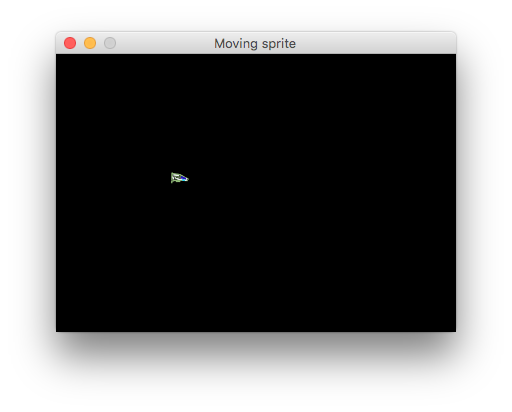
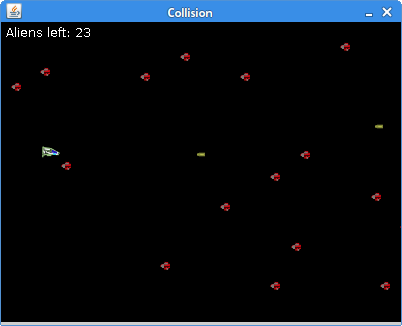
SpaceCraft

diff --git a/src/main/java/spacecraft/Board.java b/src/main/java/spacecraft/Board.java
@@ -1,8 +1,11 @@
 package spacecraft;
 
 import java.awt.Color;
+import java.awt.Dimension;
+import java.awt.Font;
+import java.awt.FontMetrics;
 import java.awt.Graphics;
-import java.awt.Graphics2D;
+import java.awt.Rectangle;
 import java.awt.Toolkit;
 import java.awt.event.ActionEvent;
 import java.awt.event.ActionListener;
@@ -14,11 +17,27 @@ import javax.swing.Timer;
 
 public class Board extends JPanel implements ActionListener {
 
-    private final int ICRAFT_X = 40;
-    private final int ICRAFT_Y = 60;
-    private final int DELAY = 10;
     private Timer timer;
     private Craft craft;
+    private ArrayList<Alien> aliens;
+    private boolean ingame;
+    private final int ICRAFT_X = 40;
+    private final int ICRAFT_Y = 60;
+    private final int B_WIDTH = 400;
+    private final int B_HEIGHT = 300;
+    private final int DELAY = 15;
+
+    private final int[][] pos = {
+        {2380, 29}, {2500, 59}, {1380, 89},
+        {780, 109}, {580, 139}, {680, 239},
+        {790, 259}, {760, 50}, {790, 150},
+        {980, 209}, {560, 45}, {510, 70},
+        {930, 159}, {590, 80}, {530, 60},
+        {940, 59}, {990, 30}, {920, 200},
+        {900, 259}, {660, 50}, {540, 90},
+        {810, 220}, {860, 20}, {740, 180},
+        {820, 128}, {490, 170}, {700, 30}
+    };
 
     public Board() {
 
@@ -30,68 +49,172 @@ public class Board extends JPanel implements ActionListener {
         addKeyListener(new TAdapter());
         setFocusable(true);
         setBackground(Color.BLACK);
-        setDoubleBuffered(true);
+        ingame = true;
+
+        setPreferredSize(new Dimension(B_WIDTH, B_HEIGHT));
 
         craft = new Craft(ICRAFT_X, ICRAFT_Y);
 
+        initAliens();
+
         timer = new Timer(DELAY, this);
         timer.start();
+    }
+
+    public void initAliens() {
+        aliens = new ArrayList<>();
+
+        for (int[] p : pos) {
+            aliens.add(new Alien(p[0], p[1]));
+        }
     }
 
     @Override
     public void paintComponent(Graphics g) {
         super.paintComponent(g);
 
-        doDrawing(g);
+        if (ingame) {
+
+            drawObjects(g);
+
+        } else {
+
+            drawGameOver(g);
+        }
 
         Toolkit.getDefaultToolkit().sync();
     }
 
-    private void doDrawing(Graphics g) {
+    private void drawObjects(Graphics g) {
 
-        Graphics2D g2d = (Graphics2D) g;
-        g2d.drawImage(craft.getImage(), craft.getX(),
-                craft.getY(), this);
-
-        ArrayList ms = craft.getMissiles();
-
-        for (Object m1 : ms) {
-            Missile m = (Missile) m1;
-            g2d.drawImage(m.getImage(), m.getX(),
-                    m.getY(), this);
+        if (craft.isVisible()) {
+            g.drawImage(craft.getImage(), craft.getX(), craft.getY(),
+                    this);
         }
+
+        ArrayList<Missile> ms = craft.getMissiles();
+
+        for (Missile m : ms) {
+            if (m.isVisible()) {
+                g.drawImage(m.getImage(), m.getX(), m.getY(), this);
+            }
+        }
+
+        for (Alien a : aliens) {
+            if (a.isVisible()) {
+                g.drawImage(a.getImage(), a.getX(), a.getY(), this);
+            }
+        }
+
+        g.setColor(Color.WHITE);
+        g.drawString("Aliens left: " + aliens.size(), 5, 15);
+    }
+
+    private void drawGameOver(Graphics g) {
+
+        String msg = "Game Over";
+        Font small = new Font("Helvetica", Font.BOLD, 14);
+        FontMetrics fm = getFontMetrics(small);
+
+        g.setColor(Color.white);
+        g.setFont(small);
+        g.drawString(msg, (B_WIDTH - fm.stringWidth(msg)) / 2,
+                B_HEIGHT / 2);
     }
 
     @Override
     public void actionPerformed(ActionEvent e) {
 
-        updateMissiles();
+        inGame();
+
         updateCraft();
+        updateMissiles();
+        updateAliens();
+
+        checkCollisions();
 
         repaint();
     }
 
-    private void updateMissiles() {
-
-        ArrayList ms = craft.getMissiles();
-
-        for (int i = 0; i < ms.size(); i++) {
-
-            Missile m = (Missile) ms.get(i);
-
-            if (m.isVisible()) {
-
-                m.move();
-            } else {
-
-                ms.remove(i);
-            }
+    private void inGame() {
+        
+        if (!ingame) {
+            timer.stop();
         }
     }
 
     private void updateCraft() {
 
-        craft.move();
+        if (craft.isVisible()) {
+            craft.move();
+        }
+    }
+
+    private void updateMissiles() {
+
+        ArrayList<Missile> ms = craft.getMissiles();
+
+        for (int i = 0; i < ms.size(); i++) {
+
+            Missile m = ms.get(i);
+
+            if (m.isVisible()) {
+                m.move();
+            } else {
+                ms.remove(i);
+            }
+        }
+    }
+
+    private void updateAliens() {
+
+        if (aliens.isEmpty()) {
+
+            ingame = false;
+            return;
+        }
+
+        for (int i = 0; i < aliens.size(); i++) {
+
+            Alien a = aliens.get(i);
+            if (a.isVisible()) {
+                a.move();
+            } else {
+                aliens.remove(i);
+            }
+        }
+    }
+
+    public void checkCollisions() {
+
+        Rectangle r3 = craft.getBounds();
+
+        for (Alien alien : aliens) {
+            Rectangle r2 = alien.getBounds();
+
+            if (r3.intersects(r2)) {
+                craft.setVisible(false);
+                alien.setVisible(false);
+                ingame = false;
+            }
+        }
+
+        ArrayList<Missile> ms = craft.getMissiles();
+
+        for (Missile m : ms) {
+
+            Rectangle r1 = m.getBounds();
+
+            for (Alien alien : aliens) {
+
+                Rectangle r2 = alien.getBounds();
+
+                if (r1.intersects(r2)) {
+                    m.setVisible(false);
+                    alien.setVisible(false);
+                }
+            }
+        }
     }
 
     private class TAdapter extends KeyAdapter {

diff --git a/src/main/java/spacecraft/Main.java b/src/main/java/spacecraft/Main.java
@@ -6,28 +6,29 @@ import javax.swing.JFrame;
 public class Main extends JFrame {
 
     public Main() {
-        
+
         initUI();
     }
-    
+
     private void initUI() {
-        
+
         add(new Board());
-        
+
         setSize(400, 300);
         setResizable(false);
-        
-        setTitle("Moving sprite");
+
+        setTitle("Collision");
+
         setLocationRelativeTo(null);
         setDefaultCloseOperation(JFrame.EXIT_ON_CLOSE);
     }
 
     public static void main(String[] args) {
-        
+
         EventQueue.invokeLater(new Runnable() {
             @Override
             public void run() {
-                
+
                 Main ex = new Main();
                 ex.setVisible(true);
             }

diff --git a/src/main/java/spacecraft/Sprite.java b/src/main/java/spacecraft/Sprite.java
@@ -1,7 +1,7 @@
 package spacecraft;
 
-import spaceinvaders.ImageUtil;
 import java.awt.Image;
+import java.awt.Rectangle;
 
 public class Sprite {
 
@@ -19,11 +19,11 @@ public class Sprite {
         this.image = ImageUtil.get(imageName);
         vis = true;
     }
-    
+
     protected void getImageDimensions() {
         width = image.getWidth(null);
         height = image.getHeight(null);
-    }    
+    }
 
     public Image getImage() {
         return image;
@@ -44,4 +44,9 @@ public class Sprite {
     public void setVisible(Boolean visible) {
         vis = visible;
     }
+
+    public Rectangle getBounds() {
+        return new Rectangle(x, y, width, height);
+    }
+
 }

diff --git a/src/main/java/spacecraft/Alien.java b/src/main/java/spacecraft/Alien.java
@@ -1,0 +1,25 @@
+package spacecraft;
+
+public class Alien extends Sprite {
+
+    private final int INITIAL_X = 400;
+
+    public Alien(int x, int y) {
+        super(x, y, "alien.png");
+        initAlien();
+    }
+
+    private void initAlien() {
+
+        getImageDimensions();
+    }
+
+    public void move() {
+
+        if (x < 0) {
+            x = INITIAL_X;
+        }
+
+        x -= 1;
+    }
+}

diff --git a/src/main/java/spacecraft/ImageUtil.java b/src/main/java/spacecraft/ImageUtil.java
@@ -1,0 +1,14 @@
+package spacecraft;
+
+import java.awt.Image;
+import java.net.URL;
+import javax.swing.ImageIcon;
+
+public class ImageUtil {
+
+    public static Image get(String name) {
+        URL loc = ImageUtil.class.getResource("/spacecraft/" + name);
+        ImageIcon iia = new ImageIcon(loc);
+        return iia.getImage();
+    }
+}
